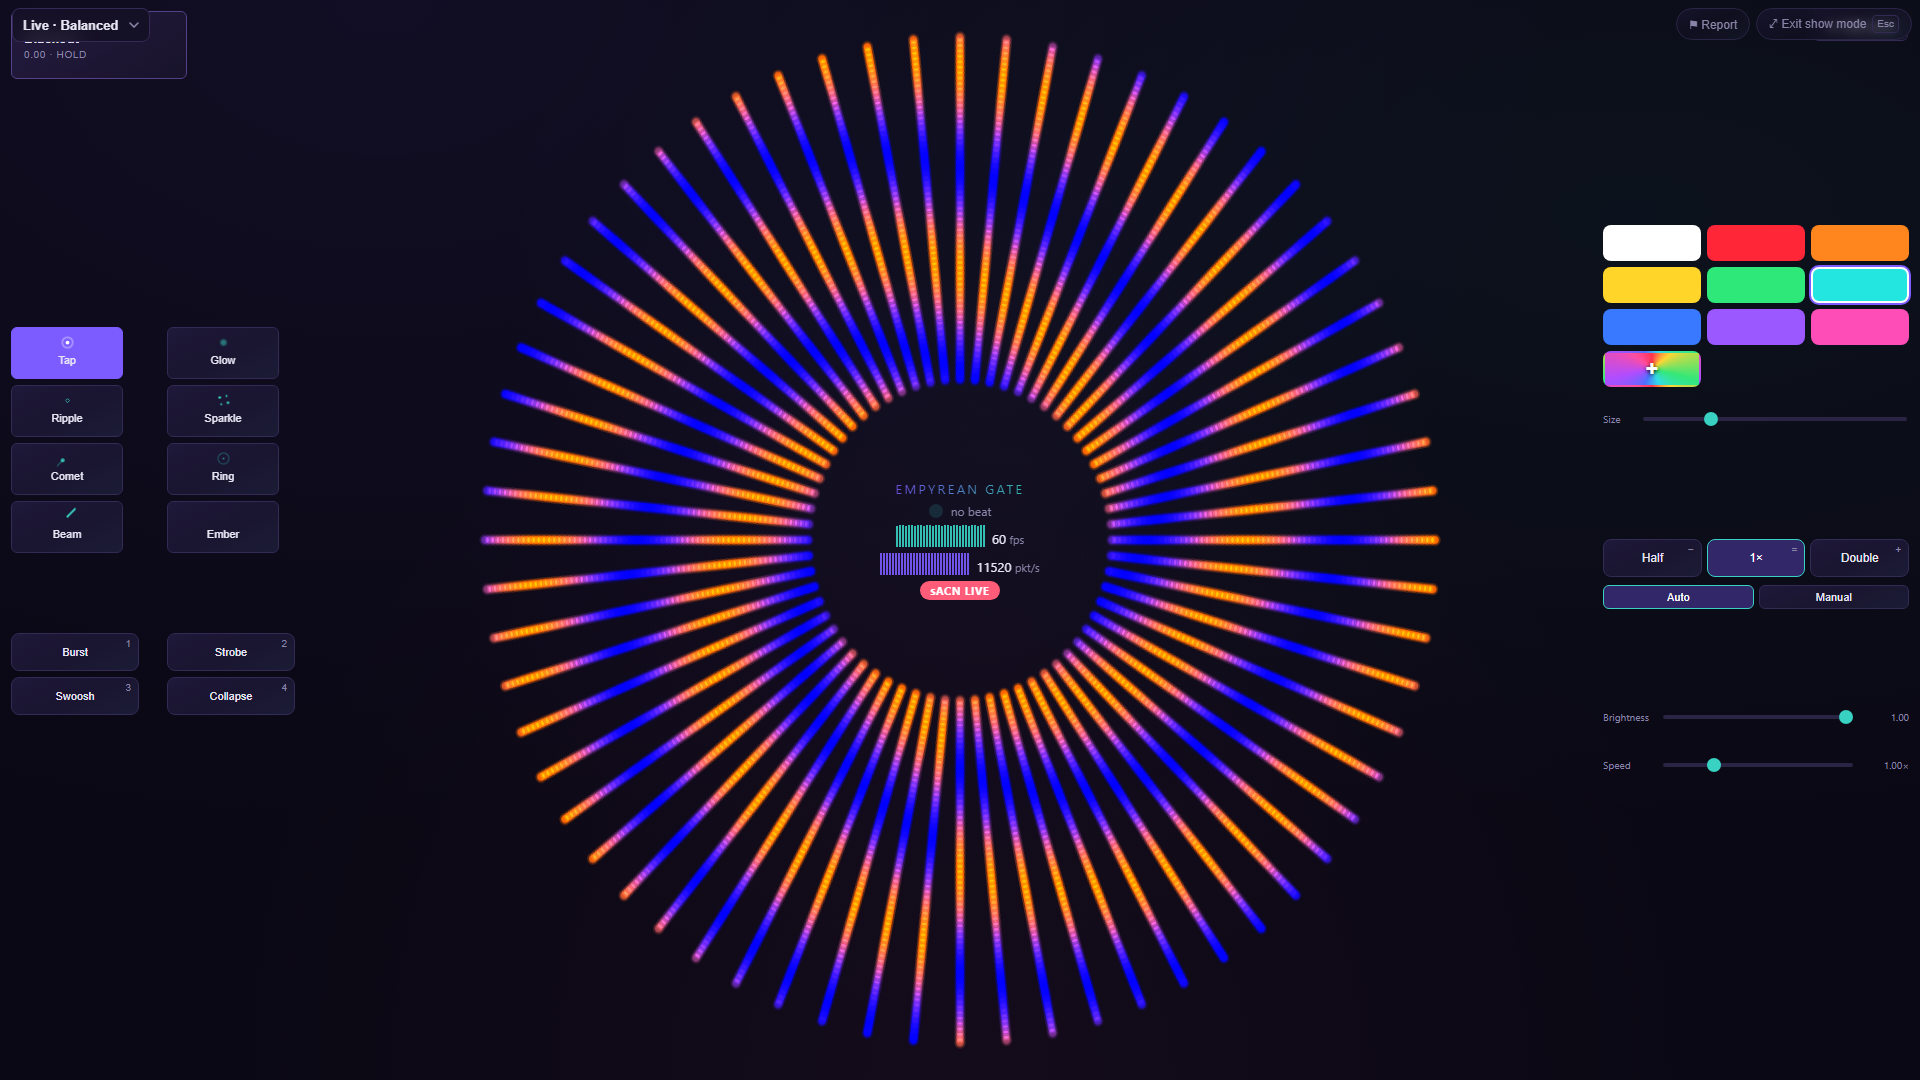
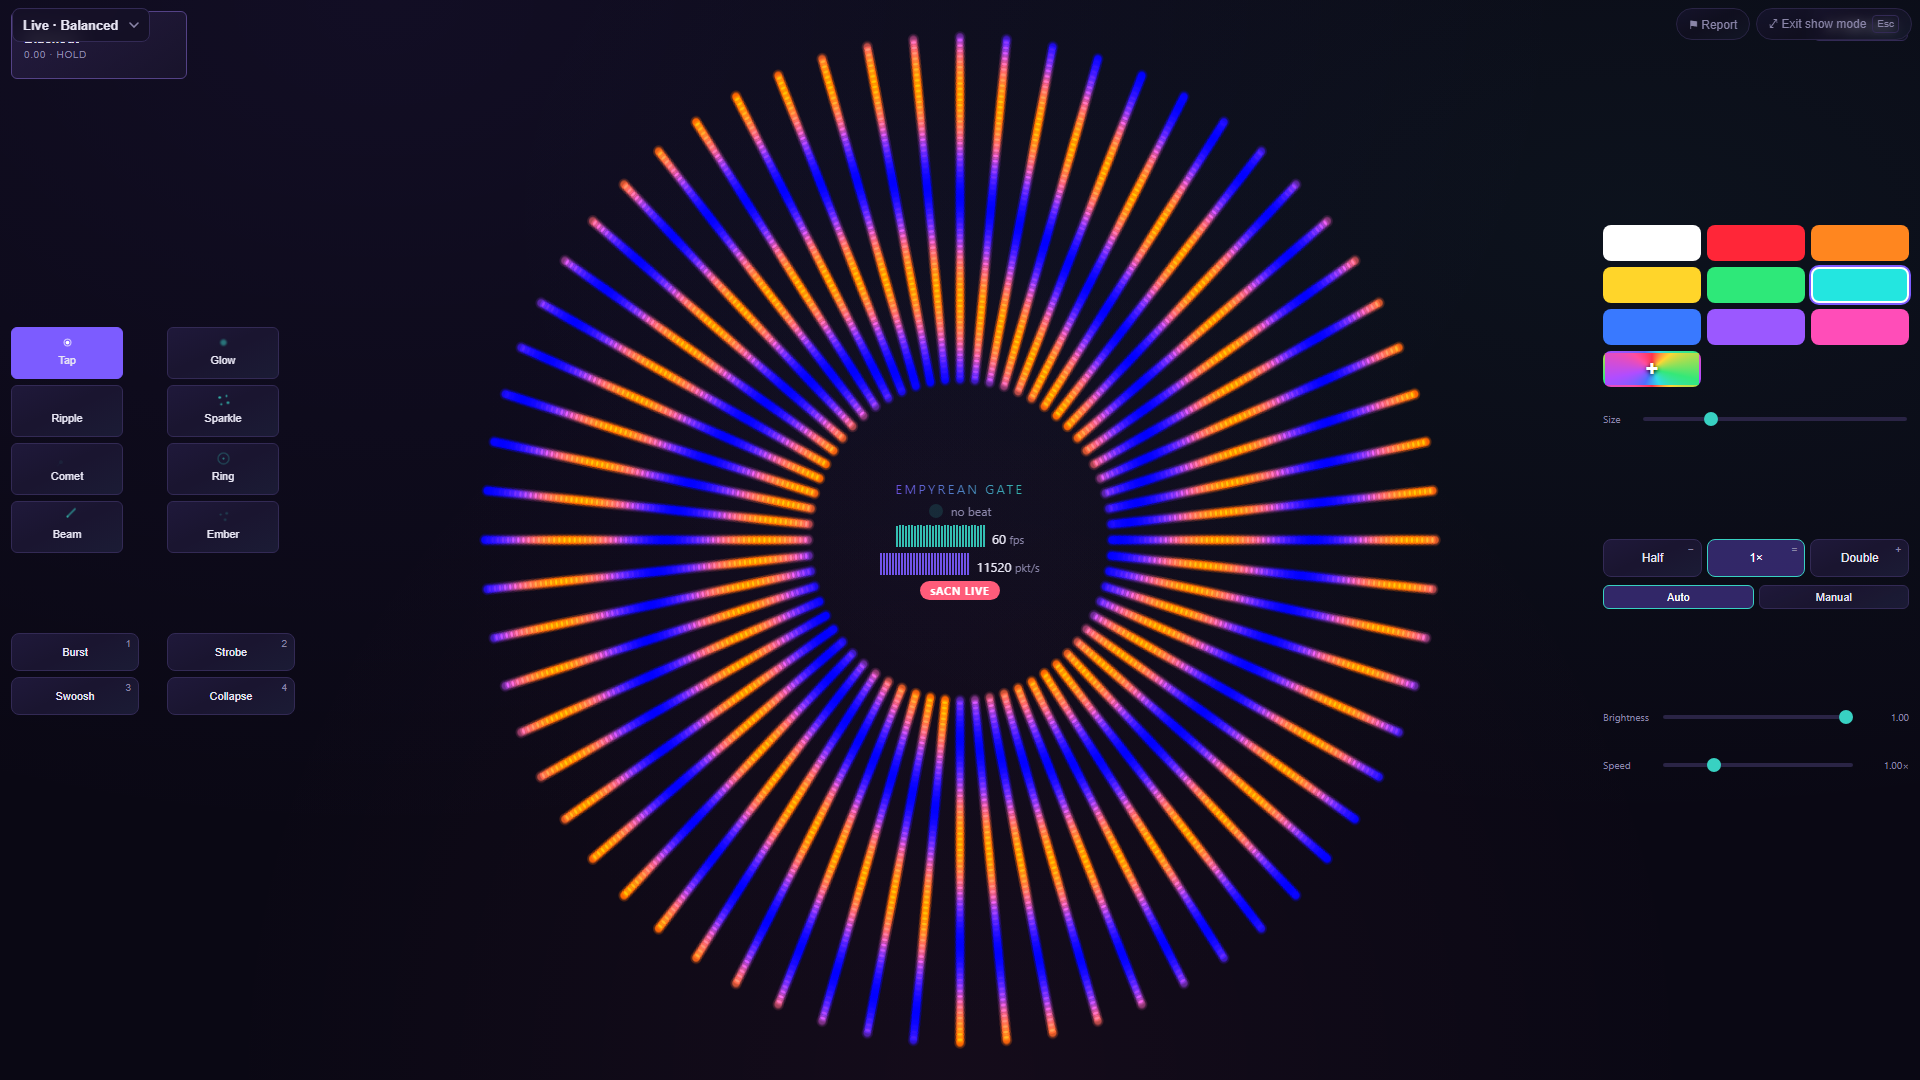
Drop the black panel behind the array preview
The array is light: its canvas is transparent so the ring composites over the
page, which is the whole reason buildGl asks for an alpha context. Sitting it
inside a widget panel put a black square around it.

The deck already stripped widget panels in performance mode, but only inside a
`min-width: 1180px` media query — so the square was there on every iPad and
every window narrower than that, which is where it was being seen. Now the
preview widget is stripped at any size, and only it: the other widgets are
buttons and want their panel, and edit mode still needs visible bounds to drag
and resize.

Also tightens the topbar below 950px (no saved-chip, smaller tab padding) —
six tabs plus the action icons were wrapping onto a second row on an iPad in
portrait, costing the array ~33px of height.

Changed region(s): [[0.25, 0.0306, 0.75, 0.9778]]

diff --git a/src/styles.css b/src/styles.css
@@ -957,10 +957,17 @@ main {
 }
 
 /* Tighter still: the version/update chip is the least urgent thing up there and
-   the same information (plus the install button) lives in Settings → Updates. */
+   the same information (plus the install button) lives in Settings → Updates.
+   The transient "✓ saved" flash goes too, and the tabs give up some padding —
+   six tabs plus the action icons otherwise wrap onto a second row on an iPad in
+   portrait, and that row costs the array 30-odd pixels of height. */
 @media (max-width: 950px) {
-  .topbar > .version-chip {
+  .topbar > .version-chip,
+  .topbar > .saved-chip {
     display: none;
+  }
+  .topbar nav button {
+    padding: 6px 9px;
   }
 }
 
@@ -2728,6 +2735,21 @@ button:disabled {
 .control-widget-preview {
   container-type: size;
   background: rgba(7, 6, 15, 0.42);
+}
+
+/* The array is LIGHT. Its canvas is transparent so the ring composites over the
+   page, the way it does over a dark room — the whole reason `buildGl` asks for
+   an alpha context. Sitting it in a widget panel puts a black square around it,
+   which is what "the thumbnail has a black square background" was.
+   Only the preview widget is stripped, and only while performing: the other
+   widgets are buttons and want their panel, and edit mode needs visible bounds
+   to drag and resize. Deliberately not inside a width media query — the square
+   was there at every size below 1180px, which is every iPad and small window. */
+.control-deck-page:not(.deck-editing) .control-widget-preview,
+.control-deck-page:not(.deck-editing) .control-widget-preview .control-widget-body {
+  background: transparent;
+  border-color: transparent;
+  box-shadow: none;
 }
 
 .control-widget-body {
